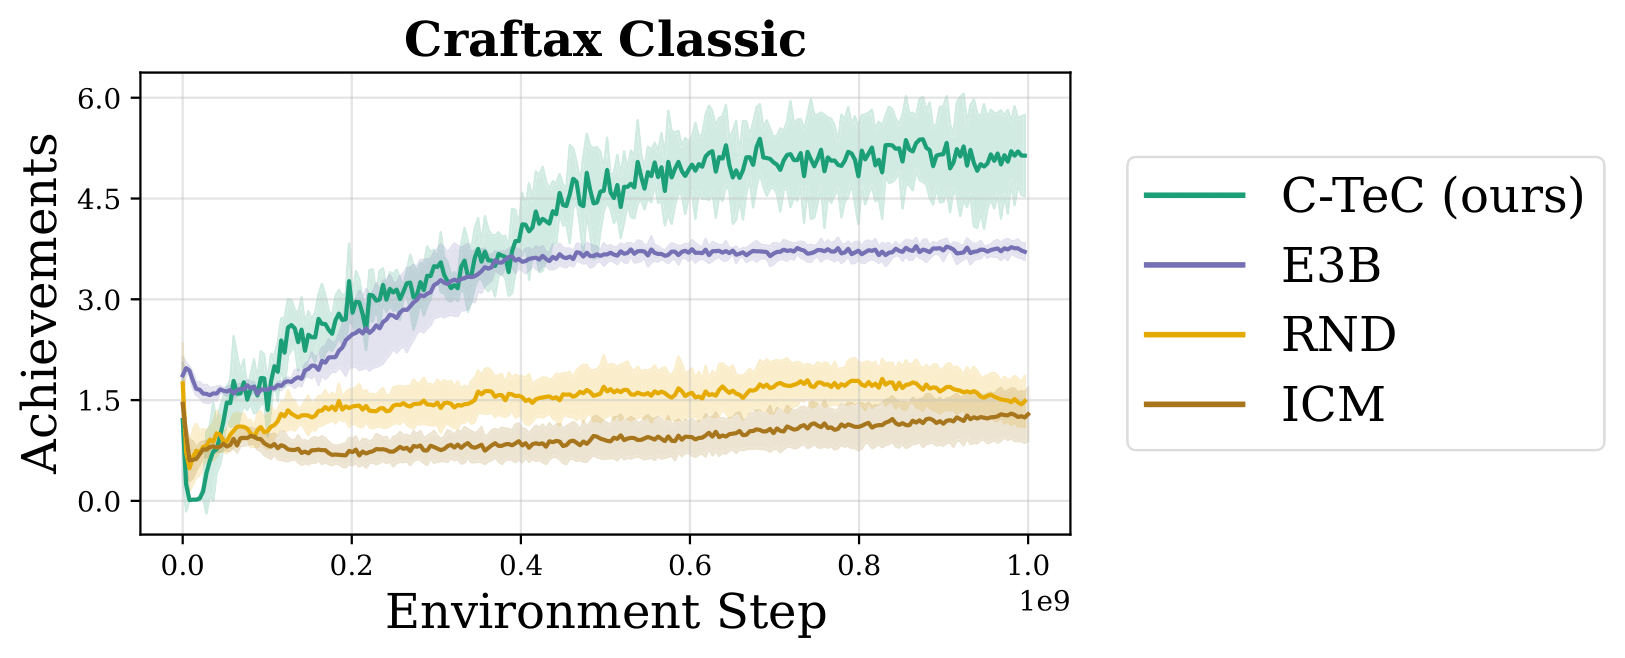
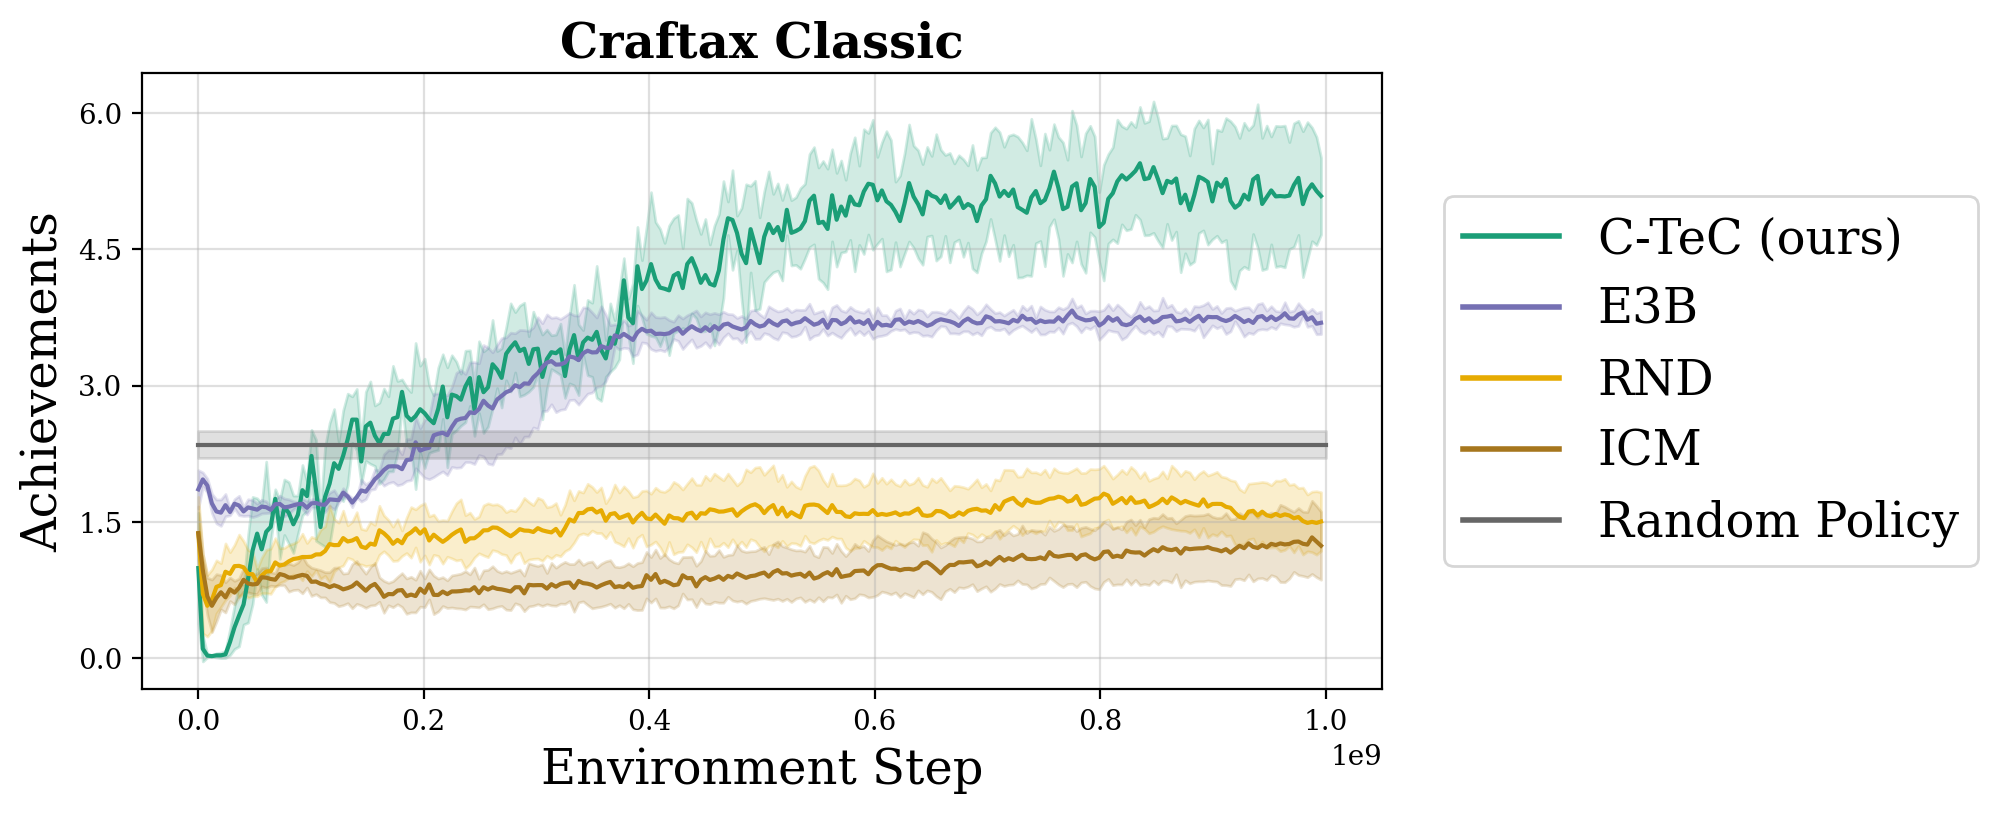
update method visual

Changed region(s): [[0.0, 0.0304, 1.0, 0.9726], [0.6154, 0.8815, 0.7077, 0.9422], [0.4, 0.4559, 0.4615, 0.4863]]

diff --git a/index.html b/index.html
@@ -99,7 +99,8 @@
                 </span>
                 <!-- Code Link. -->
                 <span class="link-block">
-                  <a href="https://github.com/FaisalAhmed0/c-tec.git" class="external-link button is-normal is-rounded is-dark">
+                  <a href="https://github.com/FaisalAhmed0/c-tec.git"
+                    class="external-link button is-normal is-rounded is-dark">
                     <span class="icon">
                       <i class="fab fa-github"></i>
                     </span>
@@ -199,15 +200,18 @@
           <h2 class="title is-3">Abstract</h2>
           <div class="content has-text-justified">
             <p>
-              Effective exploration in reinforcement learning requires keeping track not just of where the agent has
-              been, but also of how the agent thinks about and represents the world: an agent should explore states that
-              enable it to learn powerful representations.
-              Temporal representations can include the information required to solve any potential task while avoiding
-              the computational cost of reconstruction.
-              In this paper, we propose an exploration method that uses temporal representations to drive exploration,
-              maximizing coverage <em>as seen through the lens of these temporal representations.</em> We demonstrate
-              complex exploration behaviors in locomotion, manipulation, and embodied-AI tasks, revealing previously
-              unknown capabilities and behaviors once achievable only via extrinsic rewards.
+              Abstract Effective exploration in reinforcement learning requires not only tracking where an agent has
+              been, but also understanding how the agent perceives and represents the world. To learn powerful
+              representations, an agent should actively explore states that facilitate a richer understanding of its
+              environment. Temporal representations can capture the information necessary to solve a wide range of
+              potential tasks while avoiding the computational cost associated with full-state reconstruction. In this
+              paper, we propose an exploration method that leverages temporal contrastive representations to guide
+              exploration, aiming to maximize state coverage as perceived through the lens of these learned
+              representations. Temporal contrastive representations have shown promising results in goal-conditioned
+              reinforcement learning, unsupervised skill discovery, and empowerment-based learning. We demonstrate that
+              such representations can enable the learning of complex exploratory behaviors in locomotion, manipulation,
+              and embodied-AI tasks, revealing previously inaccessible capabilities and behaviors that traditionally
+              required extrinsic rewards.
             </p>
             </p>
           </div>
